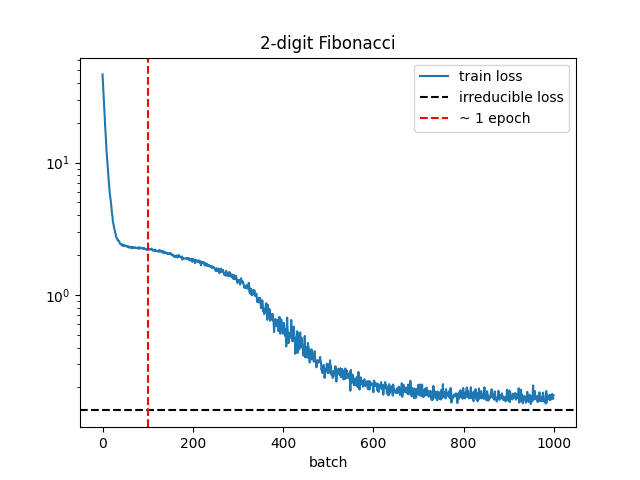
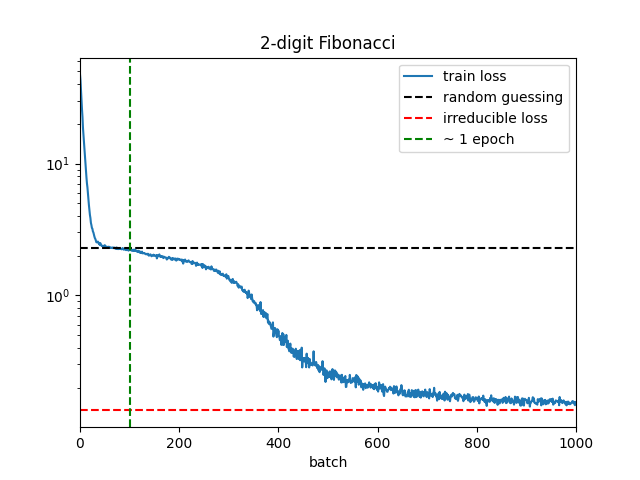
Add random_guessing line to fibonacci plot

diff --git a/scripts/train_fibonacci.py b/scripts/train_fibonacci.py
@@ -36,6 +36,9 @@ if __name__ == '__main__':
         irreducible_loss = (n_seeds / (seq_len - 1)) * np.log(max_int - 2)
         print(f'irreducible_loss = {irreducible_loss}')
 
+        # random guessing
+        random_guessing = np.log(max_int)
+
     # model
     model = Transformer(vocab_size=vocab_size,
                         d_model=64,
@@ -53,41 +56,43 @@ if __name__ == '__main__':
     checkpoint_dir = str(ROOT/'checkpoints/fibonacci')
     checkpoint_period = 100
 
-    # # train from scratch
-    # start_batch = 0
-    # losses = train_from_scratch(model=model,
-    #                             device=device,
-    #                             data_path=data_path,
-    #                             data_dtype=data_dtype,
-    #                             total_batches=total_batches,
-    #                             batch_size=batch_size,
-    #                             seq_len=seq_len,
-    #                             lr=lr,
-    #                             print_period=print_period,
-    #                             checkpoint_dir=checkpoint_dir,
-    #                             checkpoint_period=checkpoint_period)
+    # train from scratch
+    start_batch = 0
+    losses = train_from_scratch(model=model,
+                                device=device,
+                                data_path=data_path,
+                                data_dtype=data_dtype,
+                                total_batches=total_batches,
+                                batch_size=batch_size,
+                                seq_len=seq_len,
+                                lr=lr,
+                                print_period=print_period,
+                                checkpoint_dir=checkpoint_dir,
+                                checkpoint_period=checkpoint_period)
 
-    # train from checkpoint
-    start_batch = 200
-    checkpoint_path = checkpoint_dir + f'/checkpoint_batch_{start_batch}.pt'
+    # # train from checkpoint
+    # start_batch = 200
+    # checkpoint_path = checkpoint_dir + f'/checkpoint_batch_{start_batch}.pt'
 
-    losses = train_from_checkpoint(checkpoint_path=checkpoint_path,
-                                   device=device,
-                                   data_path=data_path,
-                                   data_dtype=data_dtype,
-                                   total_batches=total_batches,
-                                   batch_size=batch_size,
-                                   seq_len=seq_len,
-                                   print_period=print_period,
-                                   checkpoint_dir=checkpoint_dir,
-                                   checkpoint_period=checkpoint_period)
+    # losses = train_from_checkpoint(checkpoint_path=checkpoint_path,
+    #                                device=device,
+    #                                data_path=data_path,
+    #                                data_dtype=data_dtype,
+    #                                total_batches=total_batches,
+    #                                batch_size=batch_size,
+    #                                seq_len=seq_len,
+    #                                print_period=print_period,
+    #                                checkpoint_dir=checkpoint_dir,
+    #                                checkpoint_period=checkpoint_period)
 
     # plot
     batches = range(start_batch, total_batches)
+    cmap = plt.cm.tab10
     plt.plot(batches, losses, label='train loss')
-    plt.axhline(irreducible_loss, color='k', ls='--', label='irreducible loss')
+    plt.axhline(random_guessing, color='k', ls='--', label='random guessing')
+    plt.axhline(irreducible_loss, color='r', ls='--', label='irreducible loss')
     n_diff_seqs = vocab_size ** n_seeds
-    plt.axvline(n_diff_seqs, color='r', ls='--', label='seqs start repeating')
+    plt.axvline(n_diff_seqs, color='g', ls='--', label='~ 1 epoch')
     plt.xlabel('batch')
     plt.xlim(start_batch, total_batches)
     plt.yscale('log')
